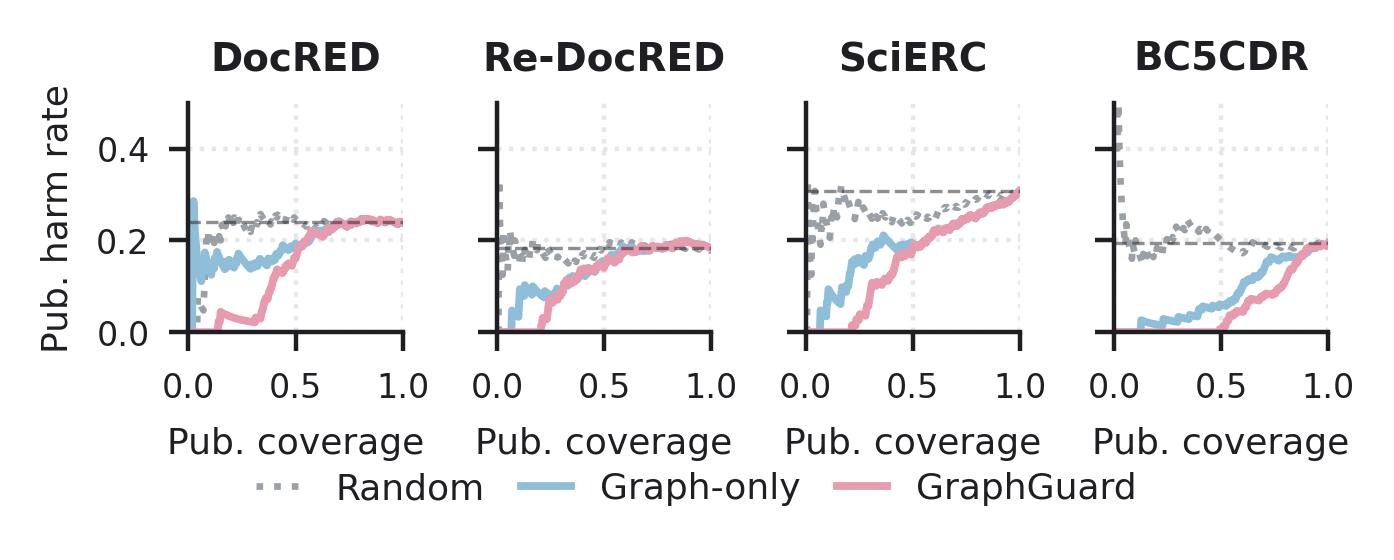
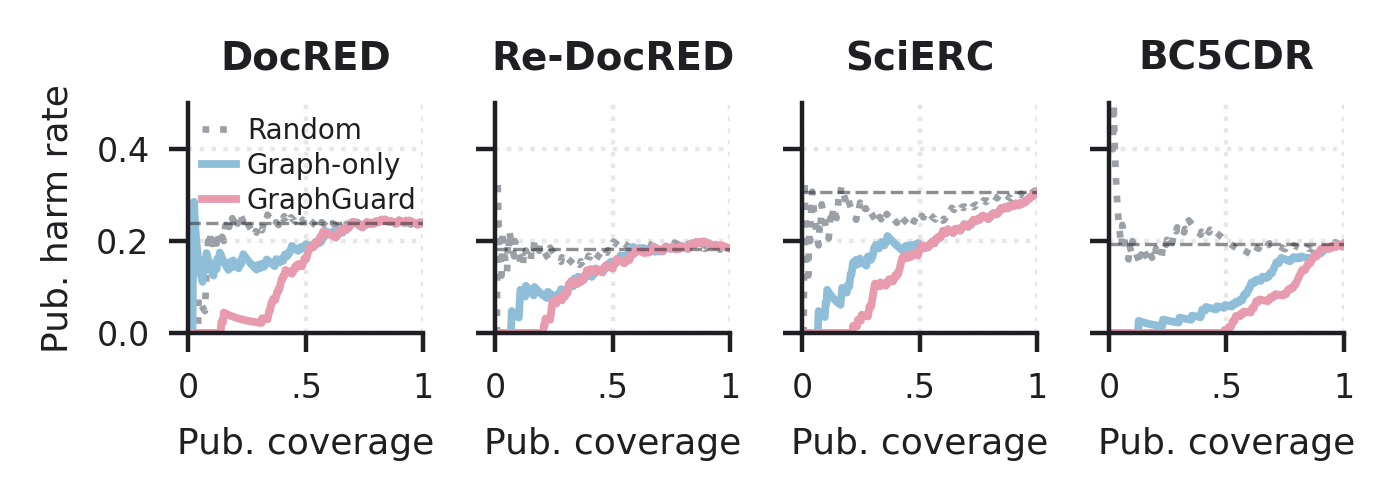
figs: unify 1x4 panel style across noise-floor/calibration/risk-coverage/budget
In-figure legends placed in empty panel regions (white-backed where curves
pass underneath), wider panel spacing (wspace 0.2), short tick labels,
compact canvases at the original height footprint, 400dpi exports.

diff --git a/scripts/make_paper_figures.py b/scripts/make_paper_figures.py
@@ -450,7 +450,7 @@ def make_calibration_figure():
     # Native single-column canvas (like fig_riskcoverage): fonts render ~1:1.
     _S.apply_rc(font_size=7)
     fig, axes = plt.subplots(1, 4, figsize=(3.5, 1.0), sharey=True,
-                             gridspec_kw={"wspace": 0.14})
+                             gridspec_kw={"wspace": 0.20})
     eps = 0.05  # SLA: <=5% harmful publication rate
 
     blue_line = _BLUE
@@ -478,7 +478,7 @@ def make_calibration_figure():
                     rf"$\tau^*$={tau_star:.2f}",
                     fontsize=6.5, color=green, fontweight="bold")
         else:
-            ax.text(0.5, 0.6, "infeasible",
+            ax.text(0.55, 0.45, "infeasible",
                     ha="center", va="center", fontsize=6.5,
                     color=red_line, fontweight="bold",
                     transform=ax.transAxes)
@@ -495,7 +495,12 @@ def make_calibration_figure():
         if ax is axes[0]:
             ax.set_ylabel("Rate", fontsize=6.5)
 
-    # Line styles are explained in the LaTeX caption; no in-figure legend.
+    axes[0].legend(loc="upper left", fontsize=5, frameon=False,
+                   handlelength=1.2, borderaxespad=0.1, labelspacing=0.25,
+                   handletextpad=0.4)
+    axes[0].text(0.96, eps + 0.04, rf"$\epsilon$={eps}", fontsize=5,
+                  color=red_line, ha="right", va="bottom",
+                  transform=axes[0].get_yaxis_transform())
     fig.tight_layout()
     out = FIG_DIR / "fig_calibration.png"
     fig.savefig(str(out), dpi=400, bbox_inches="tight")
@@ -523,7 +528,7 @@ def make_noise_floor_figure():
     floor_line   = _PINK
 
     fig, axes = plt.subplots(1, 4, figsize=(3.5, 1.0), sharey=True,
-                             gridspec_kw={"wspace": 0.14})
+                             gridspec_kw={"wspace": 0.20})
 
     for ax, (tag, name) in zip(axes, CORPORA):
         pairs = load_pairs(tag)
@@ -565,8 +570,13 @@ def make_noise_floor_figure():
             ax.spines[sp].set_visible(False)
     axes[0].set_ylabel("Mean drift", fontsize=6.5)
 
-    # Colors are explained in the LaTeX caption; no in-figure legend, so the
-    # rendered height stays at the original footprint.
+    from matplotlib.patches import Patch
+    axes[3].legend(handles=[
+        Patch(facecolor=base_color,   edgecolor=_BLUE, label=r"base $D_0$"),
+        Patch(facecolor=excess_color, edgecolor=_PINK, label="excess"),
+    ], loc="upper right", bbox_to_anchor=(1.0, 0.84), fontsize=5,
+       frameon=False, handlelength=1.0, borderaxespad=0.1,
+       labelspacing=0.25, handletextpad=0.4)
     fig.tight_layout()
     out = FIG_DIR / "fig_noise_floor.png"
     fig.savefig(str(out), dpi=400, bbox_inches="tight")

diff --git a/scripts/run_budget_planner.py b/scripts/run_budget_planner.py
@@ -146,7 +146,8 @@ def main():
     }, indent=2))
     # Native single-column canvas so fonts render ~1:1 in the PDF.
     gg_style.apply_rc(font_size=7)
-    fig, axes = plt.subplots(1, 4, figsize=(3.5, 1.36), sharey=True)
+    fig, axes = plt.subplots(1, 4, figsize=(3.5, 1.0), sharey=True,
+                             gridspec_kw={"wspace": 0.20})
     line_handles = None
     line_labels = None
     for ax, (ds_name, _) in zip(axes, DATASETS):
@@ -169,17 +170,22 @@ def main():
         ax.set_title(ds_name, fontsize=7, fontweight="bold")
         ax.tick_params(labelsize=9)
         ax.set_xticks([0, 0.5, 1.0])
+        ax.set_xticklabels(["0", ".5", "1"])
         ax.set_yticks([0, 0.5, 1.0])
         ax.set_xlabel("Budget (frac.)", fontsize=6.5)
         ax.grid(alpha=0.3, ls=":")
         for s in ("top", "right"):
             ax.spines[s].set_visible(False)
     axes[0].set_ylabel("Harm recall", fontsize=6.5)
-    fig.legend(line_handles, line_labels, loc="lower center", ncol=4,
-               fontsize=6.0, frameon=False, bbox_to_anchor=(0.5, -0.06),
-               handlelength=1.2, columnspacing=0.8)
+    short = {"Random": "Rand.", "Family-bal.": "Fam-bal.",
+             "Greedy": "Greedy", "Oracle (UB)": "Oracle"}
+    axes[0].legend(line_handles, [short.get(l, l) for l in line_labels],
+                   loc="lower right", fontsize=4.4, frameon=True,
+                   framealpha=0.9, edgecolor="none", borderpad=0.2,
+                   handlelength=0.9, borderaxespad=0.1, labelspacing=0.2,
+                   handletextpad=0.3)
     fig.tight_layout(w_pad=0.4)
-    fig.savefig(OUT_FIG, dpi=200, bbox_inches="tight")
+    fig.savefig(OUT_FIG, dpi=400, bbox_inches="tight")
     print("wrote", OUT_FIG)
     # Print summary headline numbers.
     for ds_name, _ in DATASETS:

diff --git a/scripts/make_kuzu_gate_artifacts.py b/scripts/make_kuzu_gate_artifacts.py
@@ -202,14 +202,15 @@ def build_figure():
         ax.set_title(ds_name, fontsize=7, fontweight="bold")
         ax.tick_params(labelsize=6)
         ax.set_xticks([0, 0.5, 1.0])
+        ax.set_xticklabels(["0", ".5", "1"])
         ax.set_xlabel("Pub. coverage", fontsize=6.5)
         ax.grid(alpha=0.3, ls=":")
         for s in ("top", "right"):
             ax.spines[s].set_visible(False)
     axes[0].set_ylabel("Pub. harm rate", fontsize=6.5)
-    fig.legend(line_handles, line_labels, loc="lower center", ncol=3,
-               fontsize=6.5, frameon=False, bbox_to_anchor=(0.5, -0.06),
-               handlelength=1.4, columnspacing=1.0)
+    axes[0].legend(line_handles, line_labels, loc="upper left",
+                   fontsize=5, frameon=False, handlelength=1.2,
+                   borderaxespad=0.1, labelspacing=0.25, handletextpad=0.4)
     fig.tight_layout()
     fig.savefig(OUT_FIG, dpi=400, bbox_inches="tight")
     print("wrote", OUT_FIG)
